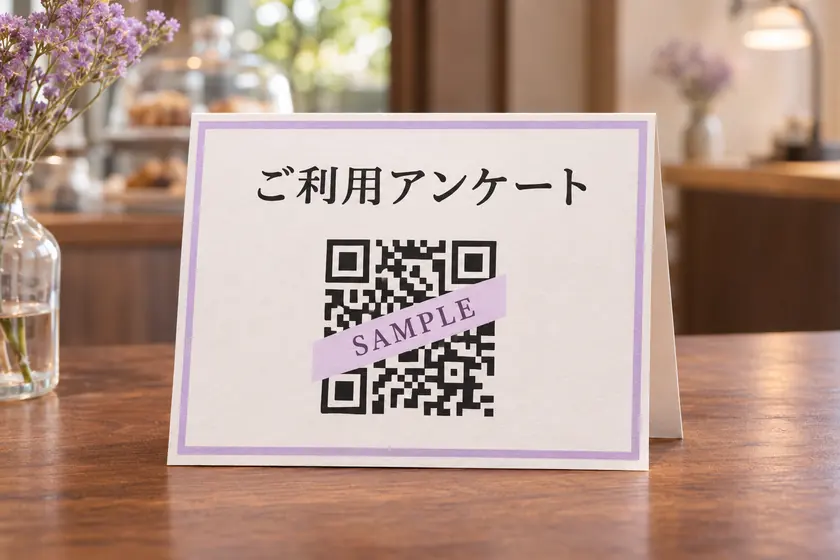
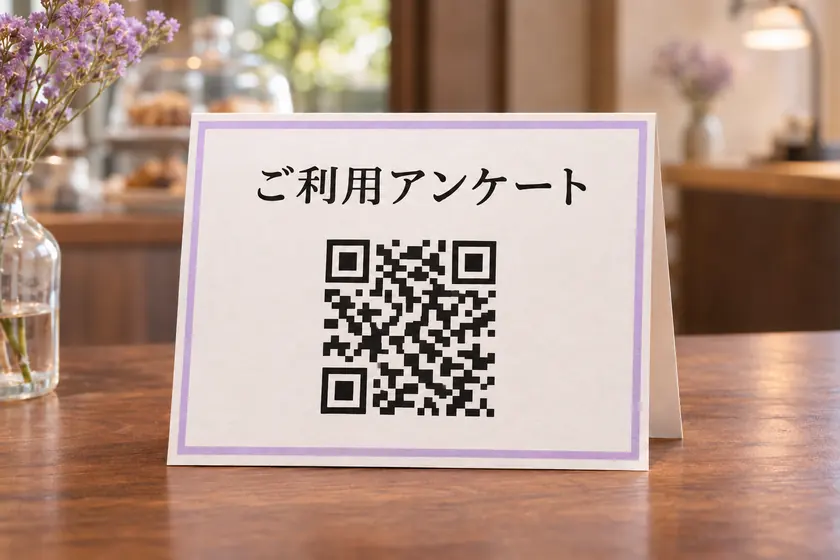
Use illustrative industry and workflow photos without naming venues

diff --git a/public/kuchikomi365/index.html b/public/kuchikomi365/index.html
@@ -71,19 +71,19 @@
     <div class="wrap">
       <p class="section-label">口コミ365本部の公開事例</p>
       <h2 id="cases-title">業種が違っても、<br>口コミの運用は見直せる。</h2>
-      <p class="section-intro">口コミ365を導入した店舗・施設について、本部が公開している変化を紹介します。</p>
+      <p class="section-intro">口コミ365を導入した店舗・施設について、本部が公開している変化を業種別に紹介します。写真は業種をイメージしたもので、実際の導入店舗の写真ではありません。</p>
       <div class="cases-grid">
         <article class="case-card case-0">
-          <figure class="case-visual"><svg viewBox="0 0 320 148" aria-hidden="true"><circle cx="250" cy="39" r="17" fill="var(--sun)"/><path d="M0 110 80 44l39 41 47-59 97 82H0Z" fill="var(--land)"/><path d="M41 116 102 62l28 22 27-26 54 57" fill="none" stroke="white" stroke-width="2" opacity=".65"/><path d="M157 105 205 49l51 57v29h-99Z" fill="var(--building)"/><path d="M183 106h45v29h-45Z" fill="#fff5df"/><path d="M205 104v33M183 121h45" stroke="var(--building)" stroke-width="3"/><path d="M0 135c52-11 99-11 149 0 49 10 92 10 171-1v15H0Z" fill="var(--base)"/></svg><figcaption>業種イメージ</figcaption></figure>
-          <div class="case-body"><p class="case-category">宿泊・観光</p><p class="case-location">山梨県都留市</p><h3>郷音-G.O.A.T.- by ReZARD HOTELS</h3><dl class="case-results"><div><dt>観測期間</dt><dd>導入から4か月</dd></div><div><dt>口コミ件数の変化</dt><dd><strong>+82</strong> 件</dd></div></dl></div>
+          <figure class="case-visual"><img src="./case-glamping.webp" width="512" height="512" loading="lazy" decoding="async" alt="グランピング施設をイメージした、緑に囲まれた木造の宿泊棟"><figcaption>業種イメージ</figcaption></figure>
+          <div class="case-body"><p class="case-category">宿泊・観光</p><h3>グランピング施設</h3><dl class="case-results"><div><dt>観測期間</dt><dd>導入から4か月</dd></div><div><dt>口コミ件数の変化</dt><dd><strong>+82</strong> 件</dd></div></dl></div>
         </article>
         <article class="case-card case-1">
-          <figure class="case-visual"><svg viewBox="0 0 320 148" aria-hidden="true"><circle cx="255" cy="40" r="23" fill="var(--sun)"/><path d="M29 133h257" stroke="var(--land)" stroke-width="5"/><rect x="89" y="55" width="144" height="78" rx="5" fill="var(--building)"/><path d="M81 78l9-23h144l9 23Z" fill="var(--land)"/><path d="M105 56l-6 22m26-22-4 22m24-22-2 22m23-22v22m21-22 2 22m19-22 4 22m17-22 5 22" stroke="#fff8ed" stroke-width="7"/><rect x="105" y="90" width="77" height="28" rx="3" fill="#fff5df"/><rect x="193" y="88" width="26" height="45" rx="3" fill="#fff5df"/><path d="M131 94c6 0 11 5 11 10s-5 10-11 10m-4-20c-6 0-11 5-11 10s5 10 11 10m24-20v20" stroke="var(--building)" stroke-width="2" fill="none"/><path d="M68 116c-9-7-16-5-20 1s-5 13-3 16h29Z" fill="var(--land)"/></svg><figcaption>業種イメージ</figcaption></figure>
-          <div class="case-body"><p class="case-category">飲食</p><p class="case-location">東京都港区・六本木</p><h3>六本木 焼肉 Queue 宮（キュウ）</h3><dl class="case-results"><div><dt>観測期間</dt><dd>導入から2か月</dd></div><div><dt>口コミ件数の変化</dt><dd><strong>+40</strong> 件</dd></div></dl></div>
+          <figure class="case-visual"><img src="./case-yakiniku.webp" width="512" height="512" loading="lazy" decoding="async" alt="焼肉店をイメージした、焼き台のある落ち着いた店内"><figcaption>業種イメージ</figcaption></figure>
+          <div class="case-body"><p class="case-category">飲食</p><h3>焼肉店</h3><dl class="case-results"><div><dt>観測期間</dt><dd>導入から2か月</dd></div><div><dt>口コミ件数の変化</dt><dd><strong>+40</strong> 件</dd></div></dl></div>
         </article>
         <article class="case-card case-2">
-          <figure class="case-visual"><svg viewBox="0 0 320 148" aria-hidden="true"><circle cx="248" cy="37" r="20" fill="var(--sun)"/><path d="M29 135h258" stroke="var(--land)" stroke-width="5"/><rect x="84" y="52" width="152" height="82" rx="8" fill="var(--building)"/><rect x="104" y="74" width="43" height="23" rx="4" fill="#fff"/><rect x="171" y="97" width="33" height="37" rx="3" fill="#fff"/><rect x="215" y="97" width="11" height="19" rx="2" fill="#fff"/><circle cx="186" cy="72" r="13" fill="#fff"/><path d="M186 65v14m-7-7h14" stroke="var(--building)" stroke-width="3" stroke-linecap="round"/><path d="M53 134v-14m0 6c-27-6-9-34 0-36 9 2 26 30 0 36Z" fill="var(--land)" stroke="var(--land)" stroke-width="3"/></svg><figcaption>業種イメージ</figcaption></figure>
-          <div class="case-body"><p class="case-category">医療・歯科</p><p class="case-location">東京都港区・表参道</p><h3>Mori Dental Clinic</h3><dl class="case-results"><div><dt>観測期間</dt><dd>導入から4か月</dd></div><div><dt>口コミ件数の変化</dt><dd><strong>+41</strong> 件</dd></div></dl></div>
+          <figure class="case-visual"><img src="./case-dental.webp" width="512" height="512" loading="lazy" decoding="async" alt="歯科クリニックをイメージした、自然光の入る診察室"><figcaption>業種イメージ</figcaption></figure>
+          <div class="case-body"><p class="case-category">医療・歯科</p><h3>歯科クリニック</h3><dl class="case-results"><div><dt>観測期間</dt><dd>導入から4か月</dd></div><div><dt>口コミ件数の変化</dt><dd><strong>+41</strong> 件</dd></div></dl></div>
         </article>
       </div>
       <div class="case-notes"><p>出典：運営元・イエロ株式会社（口コミ365本部）の公開実績。口コミの増加数は各事例の公表値で、結果は店舗や運用状況により異なります。</p></div>
@@ -131,19 +131,20 @@
       <p class="section-label">運用を支える機能</p>
       <h2 id="feature-title">口コミ365でできること</h2>
       <p class="section-intro">口コミをお願いする、返信する、件数を確認する、営業時間を更新する。4つの場面で使い方を紹介します。</p>
-      <p class="demo-guide"><span aria-hidden="true">✦</span> 図と卓上POPの写真は使い方のイメージです。</p>
+      <p class="demo-guide"><span aria-hidden="true">✦</span> 写真と画面は使い方のイメージです。</p>
       <div class="cards demo-cards">
         <article class="card">
           <div class="card-head"><span class="task">口コミのご案内</span><span class="card-number" aria-hidden="true">01</span></div>
           <div class="demo-copy"><h3>QRコードで口コミをお願いできる</h3><p>受付やお会計のあとに、QRコードやリンクでアンケートを案内できます。</p></div>
           <figure class="feature-demo demo-survey">
-            <img src="./table-survey.webp" width="840" height="560" loading="eager" decoding="async" alt="木のテーブルの上に、ご利用アンケートのサンプルQRが載った案内POPが置かれている様子">
-            <figcaption>卓上POPの設置イメージ・サンプルQR</figcaption>
+            <img src="./table-survey.webp" width="840" height="560" loading="eager" decoding="async" alt="木のテーブルの上に、ご利用アンケートのQRコード風の目印が載った案内POPが置かれている様子">
+            <figcaption>卓上POPの設置イメージ</figcaption>
           </figure>
         </article>
         <article class="card">
           <div class="card-head"><span class="task">口コミへの返信</span><span class="card-number" aria-hidden="true">02</span></div>
           <div class="demo-copy"><h3>AIが返信の下書きをつくる</h3><p>返信のたたき台はAIに。内容を確認し、伝えたい言葉を添えて使えます。</p></div>
+          <div class="workflow-photo"><img src="./workflow-reply.webp" width="512" height="512" loading="lazy" decoding="async" alt="店舗スタッフがタブレットで口コミを読み、返信を考える様子"></div>
           <figure class="feature-demo demo-reply">
             <div class="demo-bubble"><strong>架空のお客様の口コミ例</strong><span>説明が丁寧で、安心できました。</span></div>
             <div class="demo-bubble"><strong>✦ AIの返信文案例</strong><span>ご利用ありがとうございました。安心していただけて何よりです。</span></div>
@@ -152,6 +153,7 @@
         <article class="card">
           <div class="card-head"><span class="task">口コミ・順位の確認</span><span class="card-number" aria-hidden="true">03</span></div>
           <div class="demo-copy"><h3>口コミ件数や検索順位が分かる</h3><p>口コミの傾向やキーワードごとの順位を確認し、運用の見直しに役立てられます。</p></div>
+          <div class="workflow-photo"><img src="./workflow-insights.webp" width="512" height="512" loading="lazy" decoding="async" alt="ノートパソコンのグラフと手元のノートで、口コミの傾向を確認する様子"></div>
           <figure class="feature-demo demo-insights">
             <div class="demo-window">
               <span class="demo-pill">見る項目の例</span>
@@ -164,6 +166,7 @@
         <article class="card">
           <div class="card-head"><span class="task">店舗・施設の情報更新</span><span class="card-number" aria-hidden="true">04</span></div>
           <div class="demo-copy"><h3>営業時間や投稿をまとめて管理</h3><p>連休の営業案内や最新のお知らせなど、Googleマップに載せる情報の更新に使えます。</p></div>
+          <div class="workflow-photo"><img src="./workflow-hours.webp" width="512" height="512" loading="lazy" decoding="async" alt="店舗の受付で、スマートフォンから営業時間の案内を見直す様子"></div>
           <figure class="feature-demo demo-business">
             <div class="demo-window"><span class="demo-pill">掲載情報の例</span><strong>○○スタジオ</strong><div class="demo-info"><span>営業時間</span><b>10:00〜18:00</b></div><div class="demo-info"><span>お知らせ</span><b>連休中の営業案内</b></div></div>
           </figure>

diff --git a/public/kuchikomi365/design.css b/public/kuchikomi365/design.css
@@ -344,3 +344,17 @@ body{background:var(--paper)}
 .booking-controls{background:#fff}
 .booking-controls .booking-privacy{margin-top:0}
 @media(max-width:760px){.feature-demo.demo-survey{aspect-ratio:1.64}.demo-survey figcaption{font-size:10px}}
+
+.case-visual img,.workflow-photo img{display:block;width:100%;object-fit:cover}
+.case-visual img{height:clamp(130px,15vw,192px);object-position:50% 54%}
+.case-visual figcaption{padding:2px 6px;bottom:7px;right:7px}
+.workflow-photo{border-top:1px solid var(--edge);background:var(--tint);overflow:hidden}
+.workflow-photo img{height:clamp(130px,17vw,210px);object-position:50% 53%}
+.workflow-photo + .feature-demo{min-height:0;padding-block:10px}
+.feature-demo.demo-survey{aspect-ratio:2.35}
+@media(max-width:760px){
+ .case-visual img{position:absolute;inset:0;height:100%;min-height:0}
+ .case-visual figcaption{font-size:8px;right:4px;bottom:4px}
+ .workflow-photo img{height:clamp(124px,38vw,210px)}
+ .feature-demo.demo-survey{aspect-ratio:1.64}
+}

diff --git a/docs/kuchikomi365-notification-setup.md b/docs/kuchikomi365-notification-setup.md
@@ -66,3 +66,4 @@
 - 店舗・施設名は公開情報で照合。商用LPへの写真転載許諾は未確認。公開名・数字・業種イメージを使用し、写真は許諾済みの素材を入手するまで埋め込まない。事例・予約の親LPに外部リンクは置かない。
 - 予約情報の要点はページ内の開閉欄に掲載。出典：[口コミ365のプライバシーポリシー](https://365kuchikomi.com/privacypolicy/)。HubSpot iframe 内の本部独自の案内やリンクは親LPから変更していない。
 - 卓上アンケートの画像は説明用の生成画像で、QRはサンプル。事例店舗の実写ではない。利用者向けのプライバシー説明と再読み込みボタンは予約カレンダーの直下に置く。
+- 事例の表示は業種名のみ。運営元の公開値はそのまま、表示画像は業種を説明する生成イメージで、実在店舗・施設の写真ではない。各機能の利用シーンも同様。卓上POPに写るQR風の図柄は遷移先を持たない。
